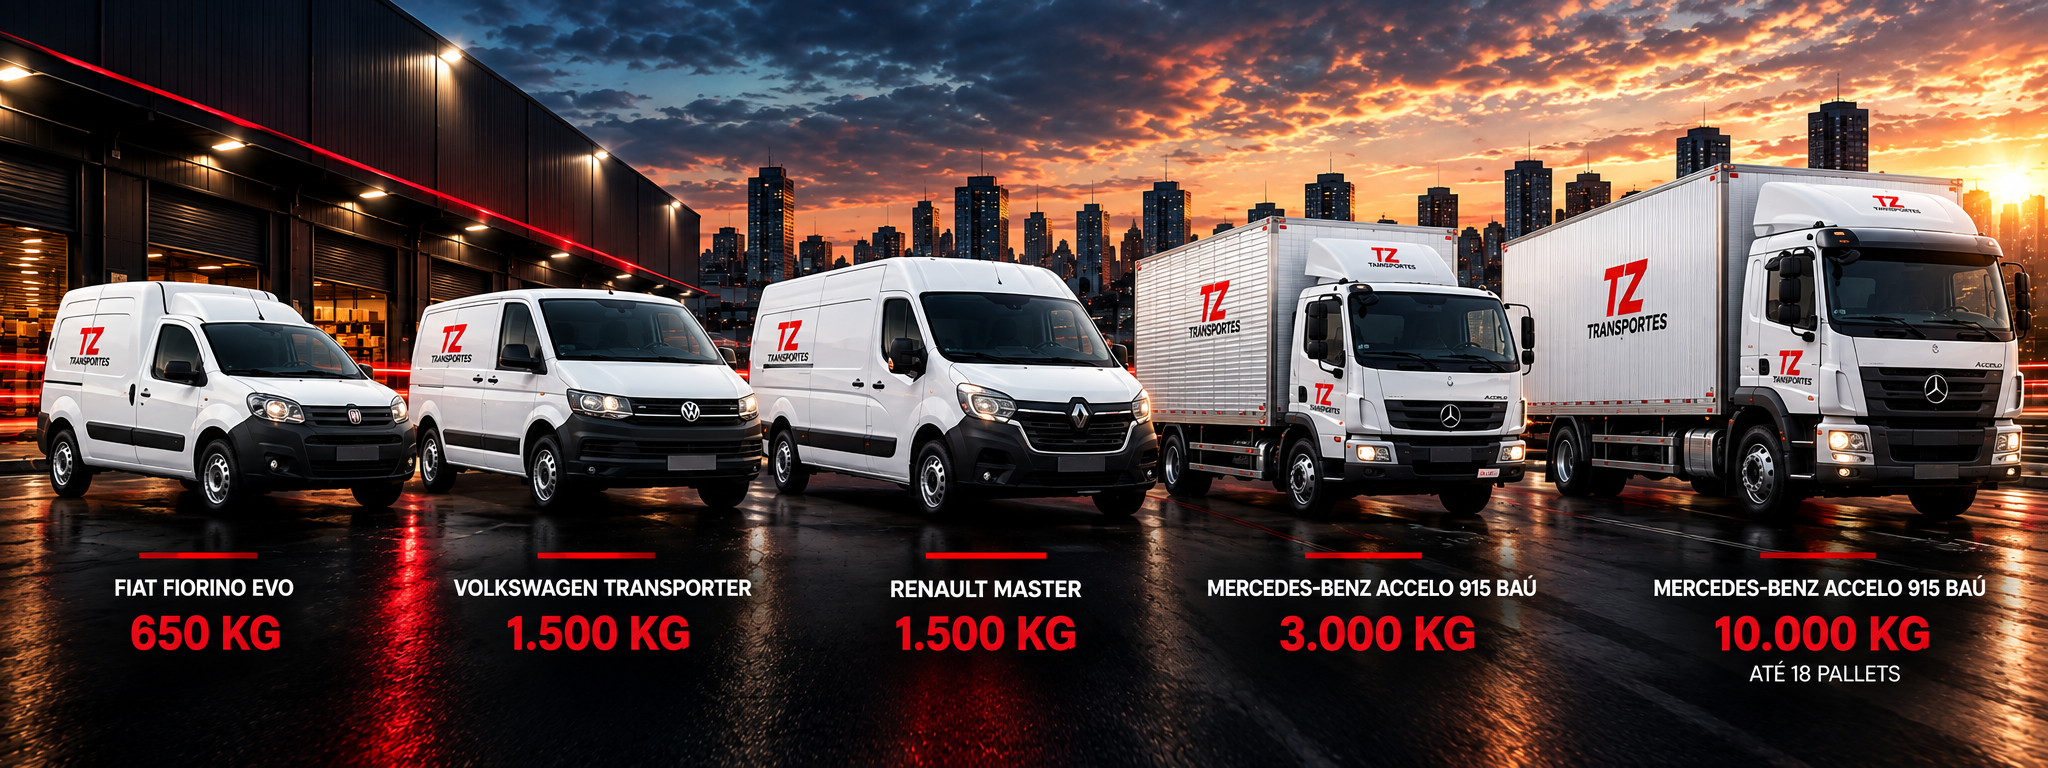
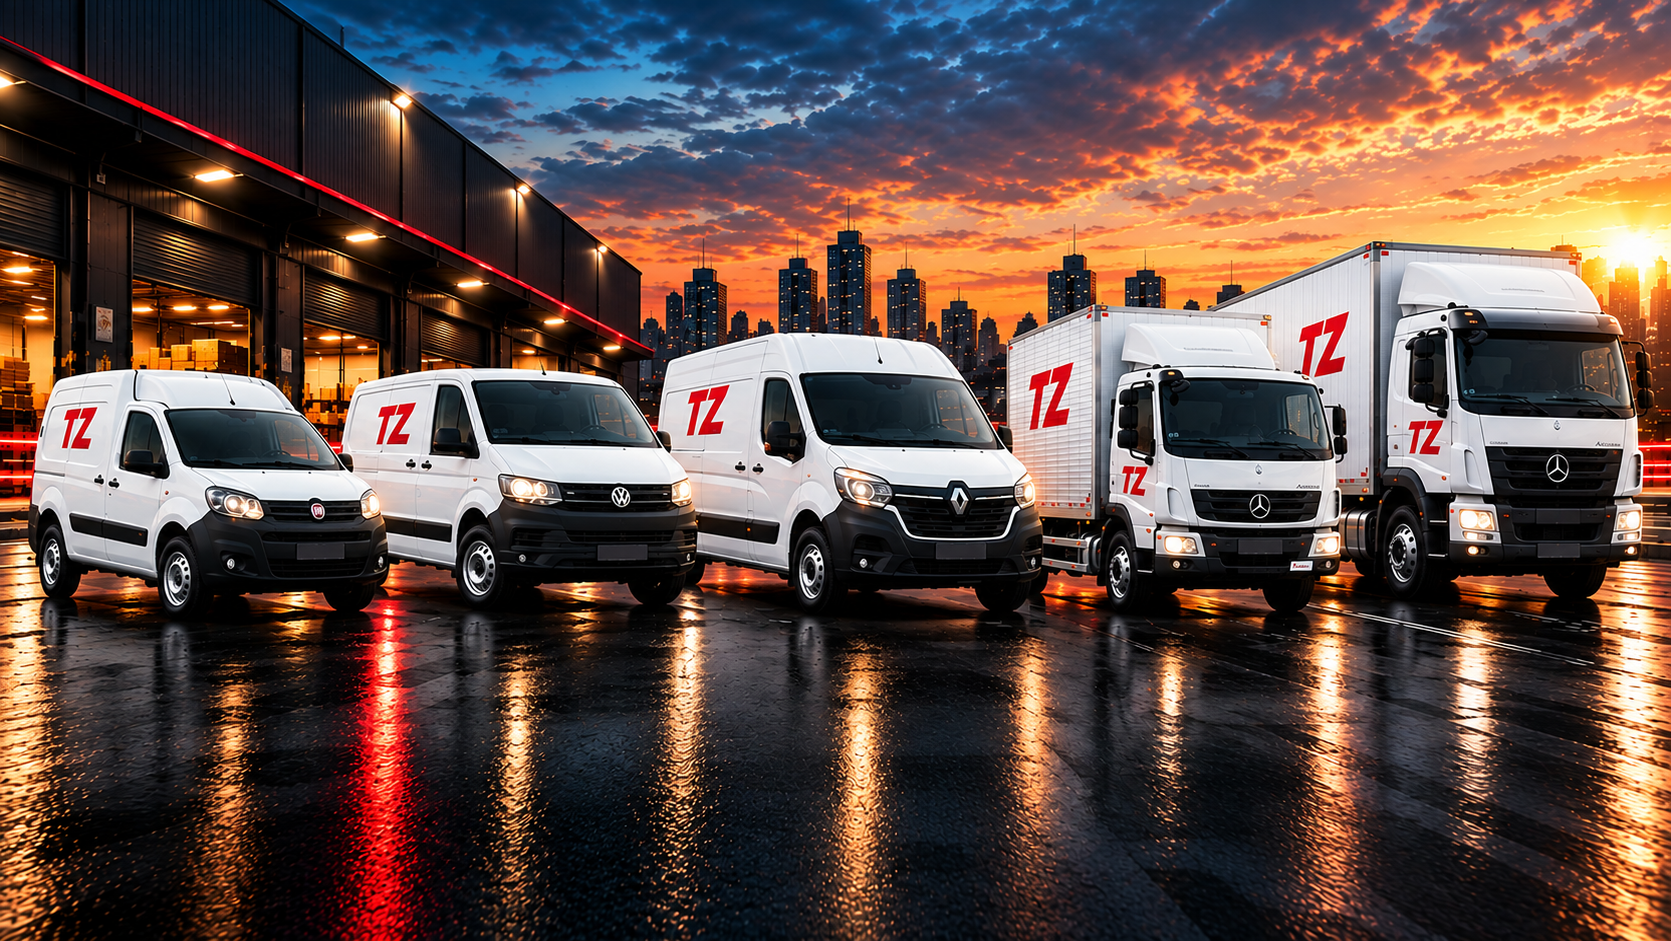
chore: atualiza imagem da frota no hero

diff --git a/index.html b/index.html
@@ -563,14 +563,14 @@
            -------------------------------------------------------------------------- */
         .tz-hero {
             position: relative;
-            min-height: 700px;
+            min-height: clamp(480px, 36.4583vw, 700px);
             margin-top: var(--tz-header-height);
             display: flex;
             align-items: center;
             color: var(--tz-white);
             overflow: hidden;
             background: linear-gradient(90deg, rgba(17, 17, 17, 0.88) 0%, rgba(17, 17, 17, 0.72) 48%, rgba(17, 17, 17, 0.45) 100%),
-                        url('./frota-tz-home.png') center 56% / cover no-repeat;
+                        url('./frota-tz-home.png?v=2') center center / cover no-repeat;
         }
 
         .tz-hero__content {
@@ -1722,8 +1722,8 @@
             }
 
             .tz-hero {
-                min-height: 620px;
-                background-position: 52% 56%;
+                min-height: 560px;
+                background-position: 50% 52%;
             }
 
             .tz-hero__title {
@@ -1807,9 +1807,9 @@
             }
 
             .tz-hero {
-                min-height: 590px;
+                min-height: 600px;
                 background: linear-gradient(180deg, rgba(17, 17, 17, 0.92) 0%, rgba(17, 17, 17, 0.75) 100%),
-                            url('./frota-tz-home.png') 50% 58% / cover no-repeat;
+                            url('./frota-tz-home.png?v=2') 42% 56% / cover no-repeat;
             }
 
             .tz-hero__content {
@@ -1968,41 +1968,6 @@
 
             body {
                 padding-bottom: 60px; /* Compensação da barra fixa */
-            }
-        }
-
-        @media (max-width: 480px) {
-            .tz-hero {
-                min-height: 570px;
-                background-position: 48% 58%;
-            }
-        }
-
-        @media (max-width: 414px) {
-            .tz-hero {
-                min-height: 560px;
-                background-position: 46% 58%;
-            }
-        }
-
-        @media (max-width: 390px) {
-            .tz-hero {
-                min-height: 550px;
-                background-position: 44% 58%;
-            }
-        }
-
-        @media (max-width: 375px) {
-            .tz-hero {
-                min-height: 540px;
-                background-position: 42% 58%;
-            }
-        }
-
-        @media (max-width: 360px) {
-            .tz-hero {
-                min-height: 530px;
-                background-position: 40% 58%;
             }
         }
     </style>
